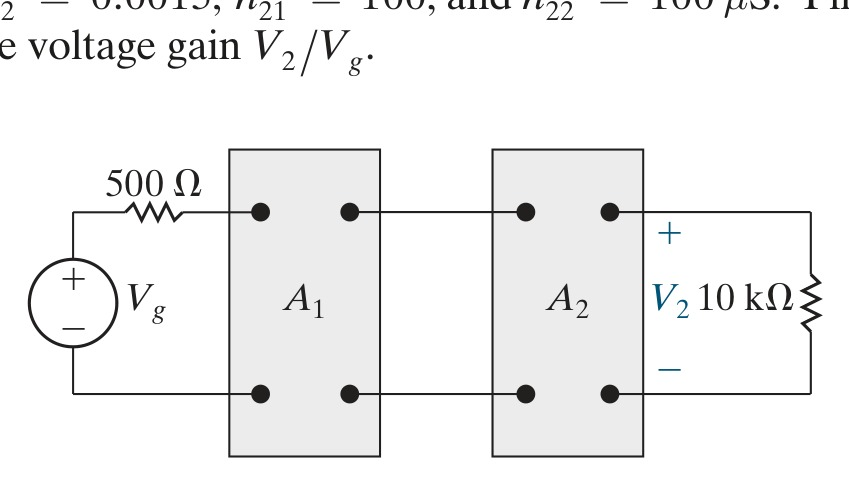
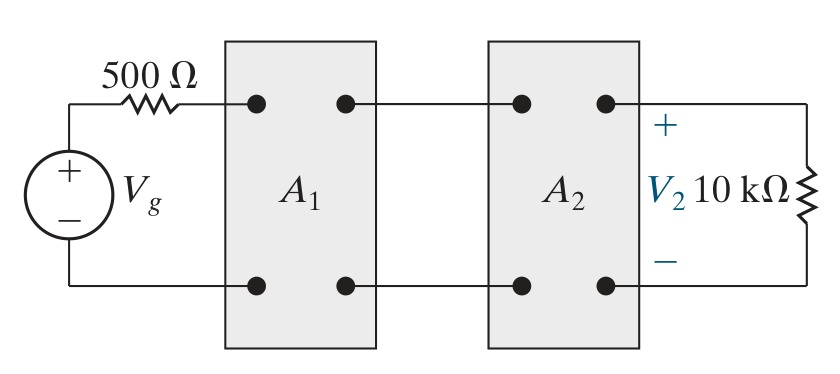
#425: answer every part of the four op-amp problems, and tidy three crops
The page stated the symbolic answer and left parts (b) and (c) to the reader,
which is not answering the question. Examples 5.1, 5.3, 5.3 part c and 5.5 now
answer each lettered part separately, every number checked against the book:
5.1 gives -4 V, 6 V and -0.8 <= vb <= 3.2 V; 5.3 gives 5k/20k/4k and
-15 <= vb <= 9 V; 5.3c gives 40 kohm; 5.5 gives 1.5k/12k and 0 <= vb <= 2 V.

Saturation is explained once, on 5.1: an ideal op amp does not know its
supplies exist, so the rails are a question asked of the answer rather than
something the solve enforces -- each range is found by asking Expert Mode for
the input that puts the output on a rail.

Three figures re-cropped above stray text the clustering had swept in: 7.3's
"V0 = 100 V.", 7.13's Thevenin-resistance formula, and 18.6's two lines of
problem prose.

diff --git a/src/98-nr12-sampler.md b/src/98-nr12-sampler.md
@@ -369,7 +369,7 @@ Nilsson & Riedel, 12th edition — the circuit for Example 5.1
 :::
 
 ::: answer
-Left symbolic, one run answers all three parts: vo = 5vb — 4va gives -4 V, then 6 V, and the saturation range falls straight out of the formula.
+An ideal op amp does not know its supplies exist — it will report an output of 200 V as readily as 2 V — so saturation is a question you ask of the answer rather than something the solve enforces. Leave both inputs symbolic and one run gives the formula every part is then read off.
 
 ```field 9 Circuit Description
 ea,1,0,va
@@ -384,6 +384,12 @@ Set {{ui:Analysis}} to *DC — direct current*.
 ::: result voltage at node 3
 v_{3} = - 4 va + 5 vb\,\mathrm{V}
 :::
+
+**a)** With {{var:v_a}} = 1 V and {{var:v_b}} = 0 V the formula gives {{var:v_o}} = 5(0) − 4(1) = {{o:-4}} V. That is inside the supplies, so the op amp is in its linear region and -4 V is the answer.
+
+**b)** With {{var:v_a}} = 1 V and {{var:v_b}} = 2 V, {{var:v_o}} = 5(2) − 4(1) = {{o:6}} V. Inside the supplies again, so the op amp is still linear.
+
+**c)** With {{var:v_a}} = 1.5 V the formula becomes {{var:v_o}} = 5{{var:v_b}} − 6. The op amp stays linear while that lies between the rails, so Symbulator is asked the question directly — put `v_3 = 10` in {{card:Expert Mode}} with `vb` as the unknown, then again with `v_3 = -10`. The rails are reached at {{var:v_b}} = {{o:3.2}} V and {{var:v_b}} = {{o:-0.8}} V, so the range is {{o:-0.8}} V ≤ {{var:v_b}} ≤ {{o:3.2}} V.
 
 :::
 :::
@@ -417,6 +423,10 @@ Set {{ui:Analysis}} to *DC — direct current*.
 ::: result voltage at node 4
 v_{4} = - 4 va - vb - 5 vc\,\mathrm{V}
 :::
+
+**a)** The summing-amplifier formula is {{var:v_o}} = -({{var:R_f}}/{{var:R_a}}){{var:v_a}} — ({{var:R_f}}/{{var:R_b}}){{var:v_b}} — ({{var:R_f}}/{{var:R_c}}){{var:v_c}}, so with a 20 kΩ feedback resistor the three input resistors are {{var:R_a}} = 20k/4 = {{o:5}} kΩ, {{var:R_b}} = 20k/1 = {{o:20}} kΩ and {{var:R_c}} = 20k/5 = {{o:4}} kΩ. Running that circuit returns the very formula the design was asked to hit, which is the check.
+
+**b)** With {{var:v_a}} = 2 V and {{var:v_c}} = -1 V the output collapses to {{var:v_o}} = -{{var:v_b}} − 3. Asking {{card:Expert Mode}} for the {{var:v_b}} that puts `v_4` on each rail gives {{o:9}} V at -12 V and {{o:-15}} V at +12 V, so the op amp stays linear for {{o:-15}} V ≤ {{var:v_b}} ≤ {{o:9}} V.
 
 :::
 :::
@@ -457,6 +467,8 @@ Set {{ui:Analysis}} to *DC — direct current*. This one needs {{ui:Enable Exper
 
 Symbulator returns `rf` = {{o:40000}} — the same answers the book prints.
 
+**c)** With {{var:v_a}} = 2 V, {{var:v_b}} = 3 V and {{var:v_c}} = -1 V the three input currents sum to a positive number, so the output swings negative and it is the -12 V rail that is reached first. Leave the feedback resistor as the symbol `rf`, put `v_4 = -12` in {{card:Expert Mode}} and name `rf` the unknown: the answer is {{o:40}} kΩ. Any larger and the op amp saturates.
+
 :::
 :::
 
@@ -488,6 +500,10 @@ Set {{ui:Analysis}} to *DC — direct current*.
 ::: result voltage at node 3
 v_{3} = - 8 va + 8 vb\,\mathrm{V}
 :::
+
+**a)** The simplified difference-amplifier formula is {{var:v_o}} = ({{var:R_b}}/{{var:R_a}})({{var:v_b}} − {{var:v_a}}), so a gain of 8 wants two resistors in the ratio 8: {{var:R_a}} = {{var:R_c}} = {{o:1.5}} kΩ and {{var:R_b}} = {{var:R_d}} = {{o:12}} kΩ. The formula also requires {{var:R_a}}/{{var:R_b}} = {{var:R_c}}/{{var:R_d}}, which those four satisfy. The run returns exactly 8({{var:v_b}} − {{var:v_a}}).
+
+**b)** With {{var:v_a}} = 1 V the output is {{var:v_o}} = 8{{var:v_b}} − 8, which reaches +8 V at {{var:v_b}} = {{o:2}} V and -8 V at {{var:v_b}} = {{o:0}} V. So the op amp remains in its linear region for {{o:0}} V ≤ {{var:v_b}} ≤ {{o:2}} V.
 
 :::
 :::
